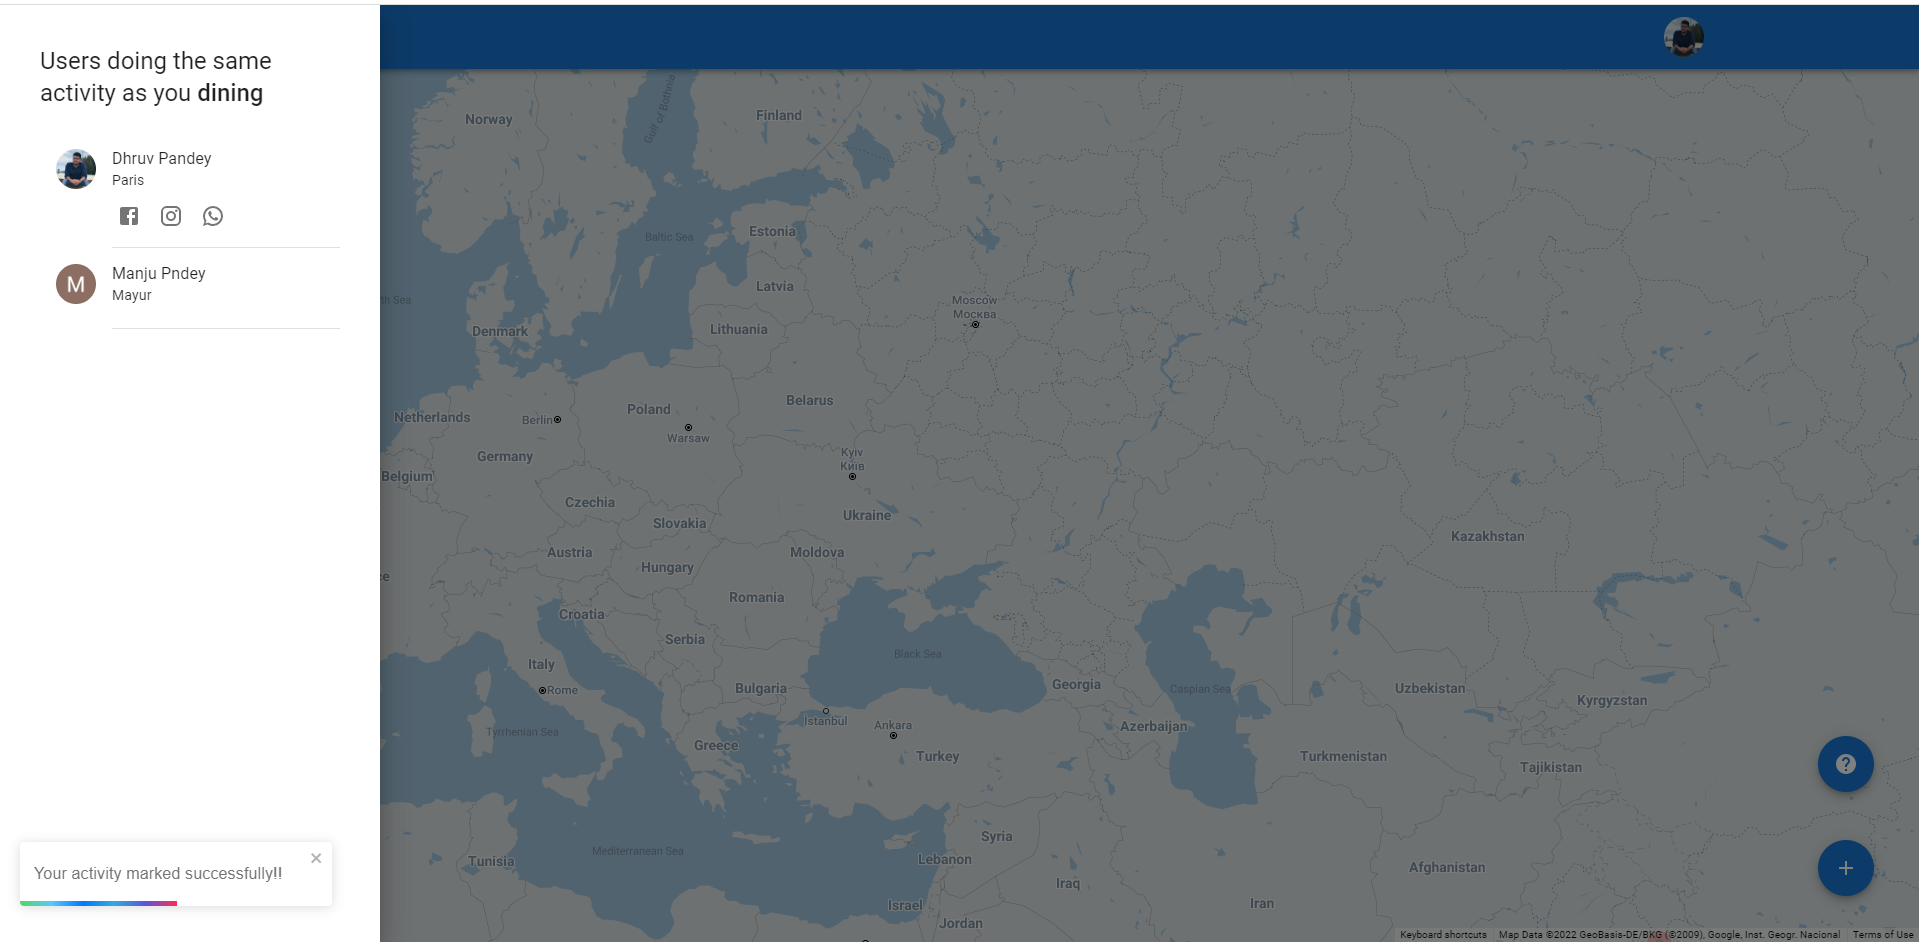
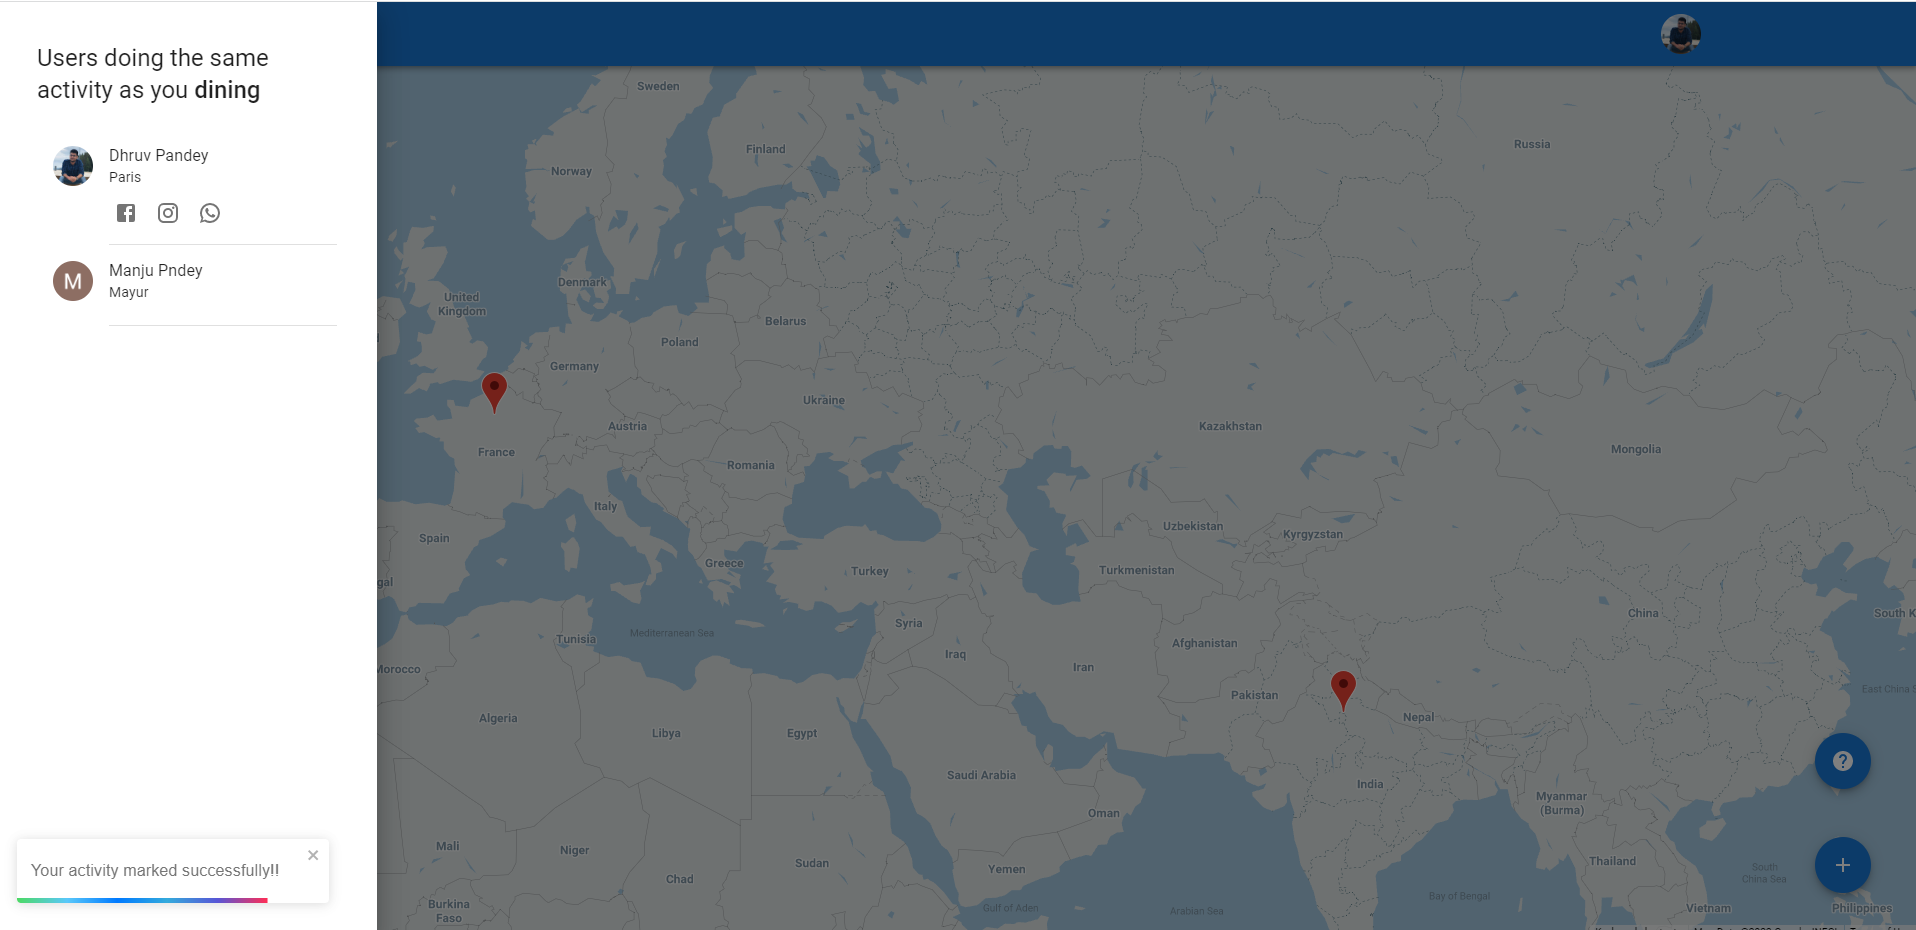
Update Readme

diff --git a/README.md b/README.md
@@ -10,9 +10,9 @@ other users doing the same activity at that time around the world.
 > Check the react-native version [here](https://github.com/pdhruv93/atatime-react-native-final)
 
 ## Tech Stack used
-- **Frontend: ** React(18.1.0) and TypeScipt, React MUI
-- **Backend: ** MongoDB Atlas DB and MongoDB Atlas App Services(Serverless functions, Triggers)
-- **Other: ** Google OAuth2, Google Maps, Formik+Yup
+- ** Frontend: ** React(18.1.0) and TypeScipt, React MUI
+- ** Backend: ** MongoDB Atlas DB and MongoDB Atlas App Services(Serverless functions, Triggers)
+- ** Other: ** Google OAuth2, Google Maps, Formik+Yup
 
 
 ## Sample Screenshots
@@ -31,7 +31,7 @@ other users doing the same activity at that time around the world.
 ### User Profile Modal and update sections
 ![](screenshots/profile_section.PNG)
 
-### Modal showing other users who are doing same activity whenever user marks any activity
+### Modal showing other users who are doing same activity whenever user marks any activity alongwith their markers on the map
 ![](screenshots/other_users.PNG)
 
 ### Google Cloud Platform used for Google Maps and OAuth2
